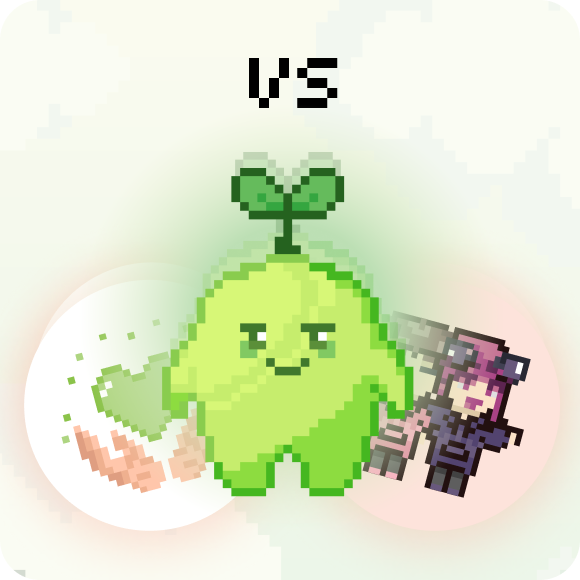
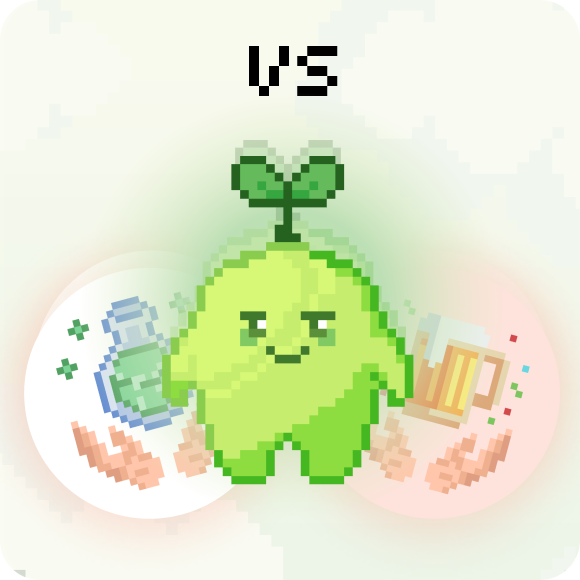
improvment UI

diff --git a/src/pages/userinfo/styles/userInfo.styles.tsx b/src/pages/userinfo/styles/userInfo.styles.tsx
@@ -64,18 +64,16 @@ export const ContentAvatar = styled.div`
     selected: boolean
   }
   export const ImageSlide = styled.div<ActiveProps>`
-    width: 230px;
+    width: 205px;
     height: 230px;
-    background: transparent;
-    border-radius: var(--Radius-12);
+    background:  ${(props: ActiveProps) => props.selected === true ? 'linear-gradient(180deg, #F9A186 -33.78%, rgba(251, 180, 158, 0.6) 111.49%)' : 'transparent' };
+    border-radius: 20px;
     margin: 40px 16px;
     display: flex;
     justify-content: center;
     align-items: center;
     object-fit: cover;
-    border-left: ${(props: ActiveProps) => props.selected === true ? '15px solid var(--Pink-300)' : 'none' };
-    /* background-color: ${(props: ActiveProps) => props.selected === true ? 'white' : 'none' }; */
-    border-radius: ${(props: ActiveProps) => props.selected === true ? '15px' : 'none' };
+    border: ${(props: ActiveProps) => props.selected === true ? '10px solid #ffffff94' : 'none' };
 `;
 export const Shadow = styled.div`
     height: 40px;

diff --git a/src/pages/home/home.tsx b/src/pages/home/home.tsx
@@ -352,7 +352,7 @@ function Home() {
                   pattern='Light'
                   sizebutton={60} 
                   style={{margin: '10px 0px 20px 0px', cursor: 'pointer',position: 'absolute'}}
-                  onClick={goToForm}>ประเมินเพิ่มเติมทีนี่</ButtonStyle>
+                  onClick={goToForm}>ประเมินเพิ่มเติมที่นี่</ButtonStyle>
                    : null }
                </Box>
           </Box>

diff --git a/src/pages/gamecontent/gamecontent.tsx b/src/pages/gamecontent/gamecontent.tsx
@@ -53,6 +53,7 @@ function GameContent() {
     const handleOk = () => {
         history.goBack();
         setStage(0)
+        audio.pause();
         HMaudio.pause();
         setHangman(false)
         setIsShowNotification(false);

diff --git a/src/pages/home/landing.tsx b/src/pages/home/landing.tsx
@@ -20,6 +20,7 @@ function Landing() {
             <Image
             width={180}
             src={Healing}
+            preview={false}
             />
             </Box>
             
